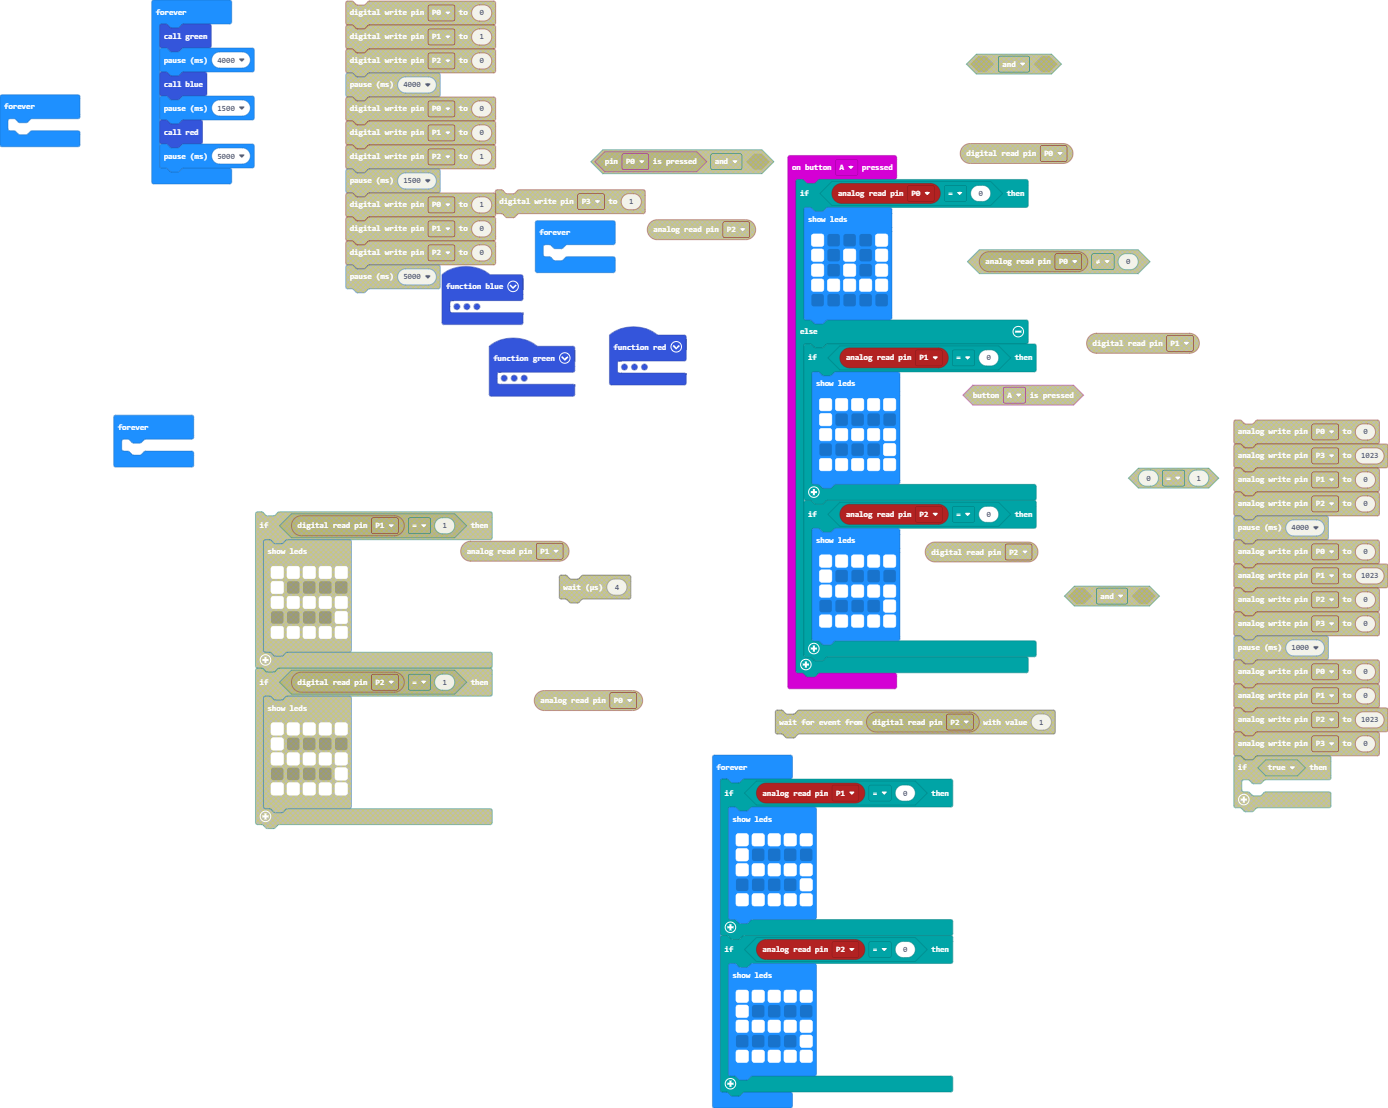
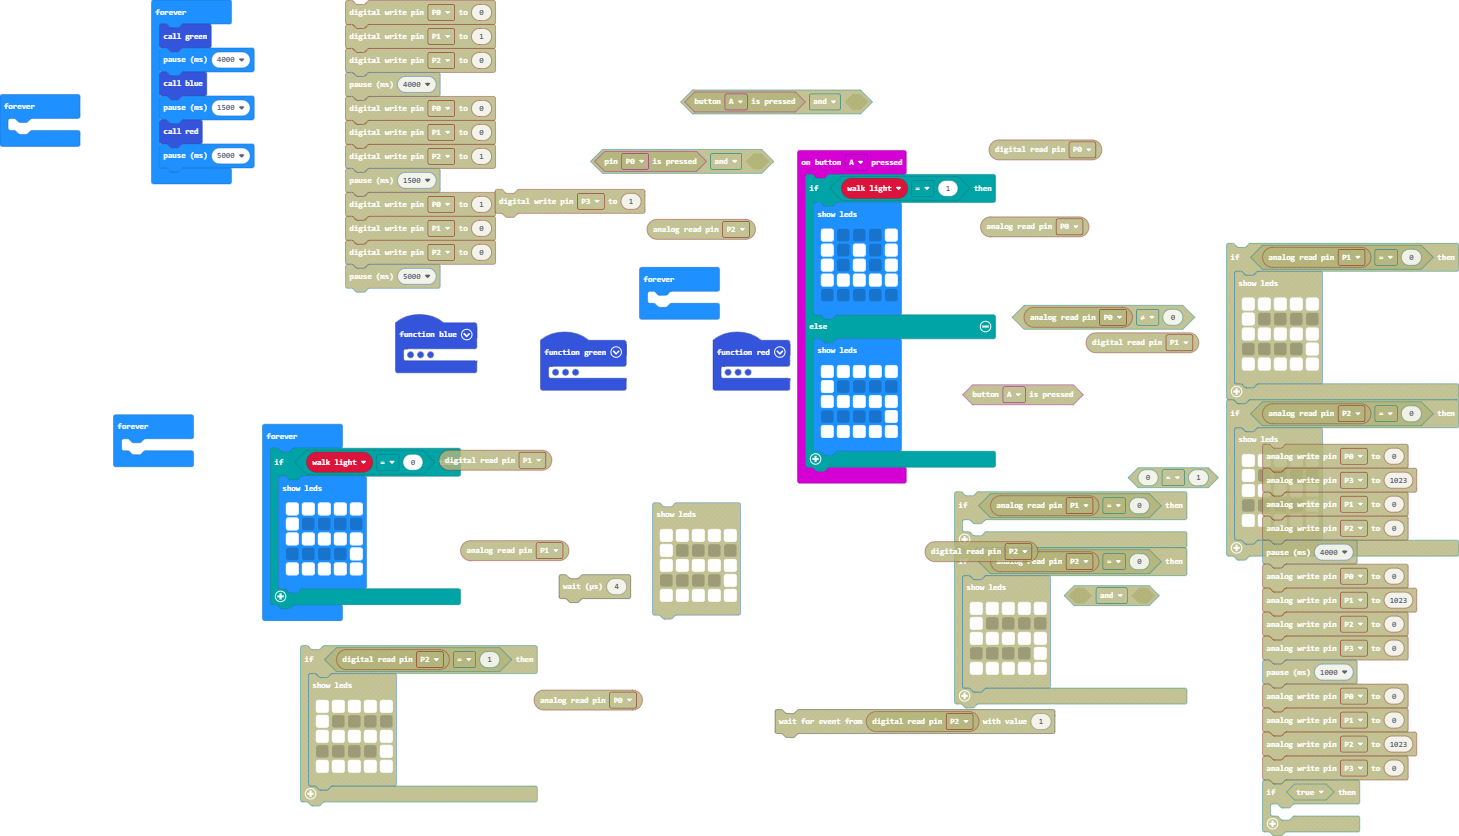
Update main.blocks, main.ts

diff --git a/main.ts b/main.ts
@@ -1,10 +1,12 @@
+let walk_light = 0
 function green () {
     pins.analogWritePin(AnalogPin.P0, 1023)
     pins.analogWritePin(AnalogPin.P1, 0)
     pins.analogWritePin(AnalogPin.P2, 1023)
+    walk_light = 0
 }
 input.onButtonPressed(Button.A, function () {
-    if (pins.analogReadPin(AnalogPin.P0) == 0) {
+    if (walk_light == 1) {
         basic.showLeds(`
             # . . . #
             # . # . #
@@ -13,35 +15,26 @@ input.onButtonPressed(Button.A, function () {
             . . . . .
             `)
     } else {
-        if (pins.analogReadPin(AnalogPin.P1) == 0) {
-            basic.showLeds(`
-                # # # # #
-                # . . . .
-                # # # # #
-                . . . . #
-                # # # # #
-                `)
-        }
-        if (pins.analogReadPin(AnalogPin.P2) == 0) {
-            basic.showLeds(`
-                # # # # #
-                # . . . .
-                # # # # #
-                . . . . #
-                # # # # #
-                `)
-        }
+        basic.showLeds(`
+            # # # # #
+            # . . . .
+            # # # # #
+            . . . . #
+            # # # # #
+            `)
     }
 })
 function blue () {
     pins.analogWritePin(AnalogPin.P0, 1023)
     pins.analogWritePin(AnalogPin.P1, 1023)
     pins.analogWritePin(AnalogPin.P2, 0)
+    walk_light = 0
 }
 function red () {
     pins.analogWritePin(AnalogPin.P0, 0)
     pins.analogWritePin(AnalogPin.P1, 1023)
     pins.analogWritePin(AnalogPin.P2, 1023)
+    walk_light = 1
 }
 basic.forever(function () {
     green()
@@ -61,16 +54,7 @@ basic.forever(function () {
 	
 })
 basic.forever(function () {
-    if (pins.analogReadPin(AnalogPin.P1) == 0) {
-        basic.showLeds(`
-            # # # # #
-            # . . . .
-            # # # # #
-            . . . . #
-            # # # # #
-            `)
-    }
-    if (pins.analogReadPin(AnalogPin.P2) == 0) {
+    if (walk_light == 0) {
         basic.showLeds(`
             # # # # #
             # . . . .
